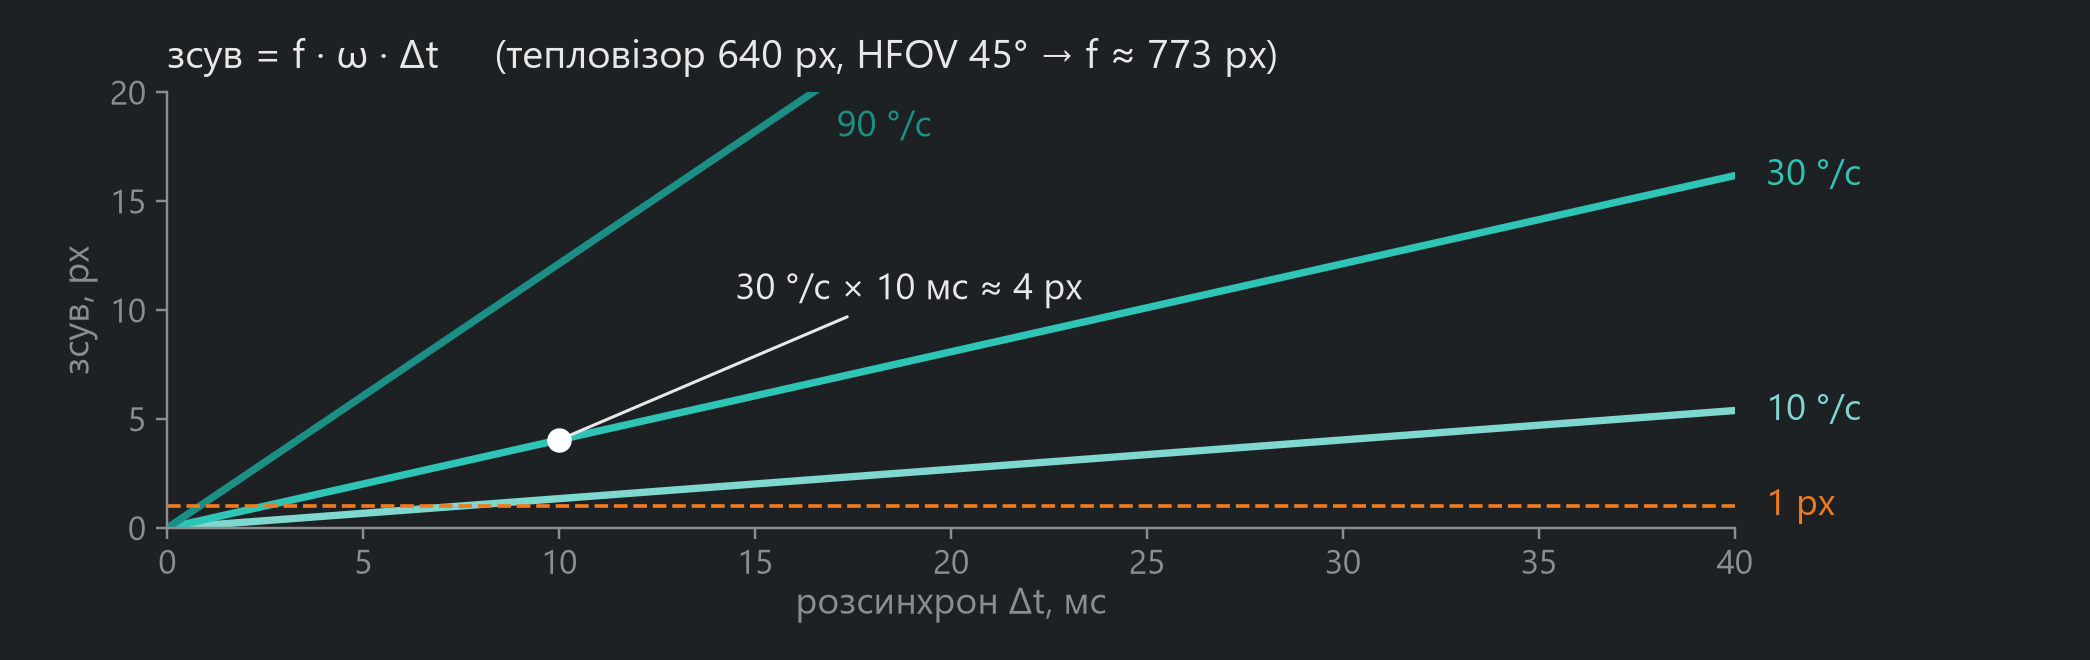
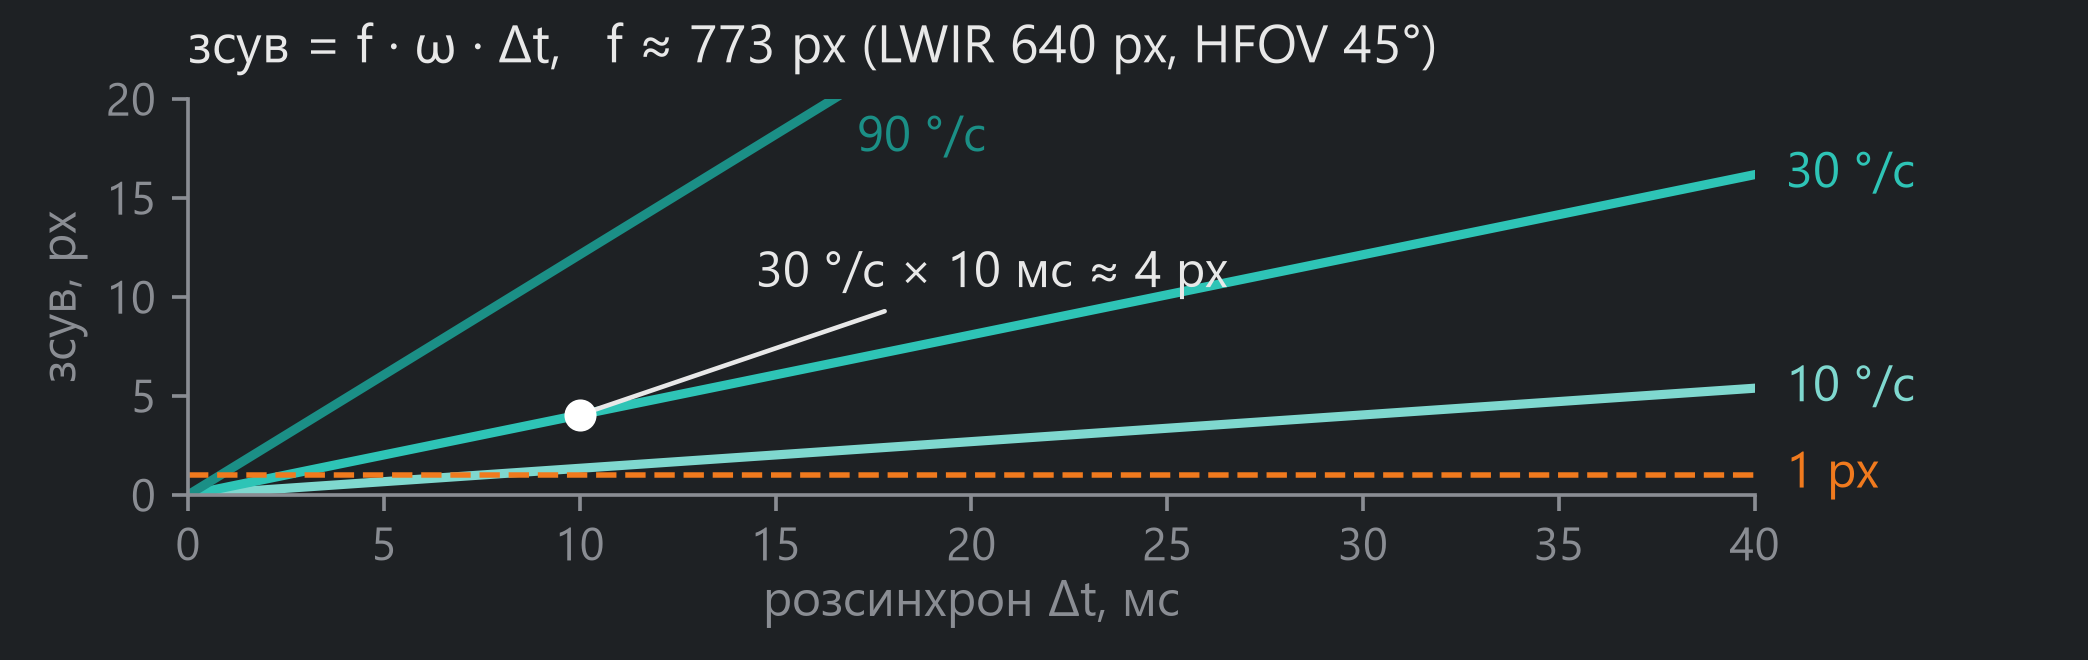
Slide 44: larger labels

diff --git a/scripts/p44_bridge.py b/scripts/p44_bridge.py
@@ -25,37 +25,37 @@ ORANGE = "#f07a1e"
 F_LWIR = 320 / np.tan(np.radians(22.5))  # 640 px, HFOV 45° (sim12.py): ≈ 773 px
 
 # ---- left card: shift in px = f · ω · Δt ----
-fig, ax = plt.subplots(figsize=(9.5, 3.0), facecolor=CARD_HEX)
-fig.subplots_adjust(left=0.08, right=0.83, top=0.86, bottom=0.2)
+fig, ax = plt.subplots(figsize=(6.33, 2.0), facecolor=CARD_HEX)
+fig.subplots_adjust(left=0.09, right=0.84, top=0.85, bottom=0.25)
 ax.set_facecolor(CARD_HEX)
 dt = np.linspace(0, 40, 200)  # ms
 for w, col in [(10, "#7fd8cf"), (30, TEAL), (90, "#1b8f86")]:
     px = F_LWIR * np.radians(w) * dt / 1000
-    ax.plot(dt, px, color=col, lw=2.4)
+    ax.plot(dt, px, color=col, lw=2)
     # label at the right edge, or where the line leaves the top
     if px[-1] <= 20:
-        ax.text(40.8, px[-1], f"{w} °/с", color=col, fontsize=12, va="center")
+        ax.text(40.8, px[-1], f"{w} °/с", color=col, fontsize=11, va="center")
     else:
         x_top = 20 / (F_LWIR * np.radians(w) / 1000)
-        ax.text(x_top + 0.6, 19.2, f"{w} °/с", color=col, fontsize=12, va="top")
+        ax.text(x_top + 0.6, 19.2, f"{w} °/с", color=col, fontsize=11, va="top")
 ax.axhline(1, color=ORANGE, lw=1.2, ls="--")
-ax.text(40.8, 1, "1 px", color=ORANGE, fontsize=12, va="center")
+ax.text(40.8, 1, "1 px", color=ORANGE, fontsize=11, va="center")
 p = F_LWIR * np.radians(30) * 0.010
-ax.plot([10], [p], "o", color="white", ms=7, zorder=5)
-ax.annotate(f"30 °/с × 10 мс ≈ {p:.0f} px", (10, p), (14.5, 10.5), color=FG, fontsize=12,
+ax.plot([10], [p], "o", color="white", ms=6, zorder=5)
+ax.annotate(f"30 °/с × 10 мс ≈ {p:.0f} px", (10, p), (14.5, 10.5), color=FG, fontsize=11,
             arrowprops=dict(arrowstyle="-", color=FG, lw=1))
 ax.set_xlim(0, 40)
 ax.set_ylim(0, 20)
-ax.set_xlabel("розсинхрон Δt, мс", color=MUTED, fontsize=12, labelpad=2)
-ax.set_ylabel("зсув, px", color=MUTED, fontsize=12)
-ax.set_title(f"зсув = f · ω · Δt     (тепловізор 640 px, HFOV 45° → f ≈ {F_LWIR:.0f} px)",
-             color=FG, fontsize=13, loc="left", pad=8)
-ax.tick_params(colors=MUTED, labelsize=11)
+ax.set_xlabel("розсинхрон Δt, мс", color=MUTED, fontsize=11, labelpad=2)
+ax.set_ylabel("зсув, px", color=MUTED, fontsize=11)
+ax.set_title(f"зсув = f · ω · Δt,   f ≈ {F_LWIR:.0f} px (LWIR 640 px, HFOV 45°)",
+             color=FG, fontsize=11.5, loc="left", pad=8)
+ax.tick_params(colors=MUTED, labelsize=10)
 for side in ("top", "right"):
     ax.spines[side].set_visible(False)
 for side in ("left", "bottom"):
     ax.spines[side].set_color(MUTED)
-fig.savefig(os.path.join(out_dir, "p44_fwdt.png"), dpi=220, facecolor=CARD_HEX)
+fig.savefig(os.path.join(out_dir, "p44_fwdt.png"), dpi=330, facecolor=CARD_HEX)
 plt.close(fig)
 
 # ---- right card: illustration with labels ----
@@ -75,11 +75,11 @@ a = m * a + (1 - m) * np.array(CARD)
 im = Image.fromarray(a.clip(0, 255).astype(np.uint8))
 
 d = ImageDraw.Draw(im)
-font = ImageFont.truetype(r"C:\Windows\Fonts\segoeui.ttf", 64)
-bold = ImageFont.truetype(r"C:\Windows\Fonts\segoeuib.ttf", 64)
-y = im.size[1] - 60
-for cx, col, head, rest in [(w * 0.25, TEAL, "Активні: ", "випромінюють і ловлять відбиття"),
-                            (w * 0.75, ORANGE, "Пасивний: ", "лише приймає тепло, 8–14 мкм")]:
+font = ImageFont.truetype(r"C:\Windows\Fonts\segoeui.ttf", 92)
+bold = ImageFont.truetype(r"C:\Windows\Fonts\segoeuib.ttf", 92)
+y = im.size[1] - 45
+for cx, col, head, rest in [(w * 0.25, TEAL, "Активні: ", "світять і ловлять відбиття"),
+                            (w * 0.75, ORANGE, "Пасивний: ", "лише приймає тепло")]:
     tw = d.textlength(head, font=bold) + d.textlength(rest, font=font)
     x = cx - tw / 2
     d.text((x, y), head, font=bold, fill=col, anchor="ls")
